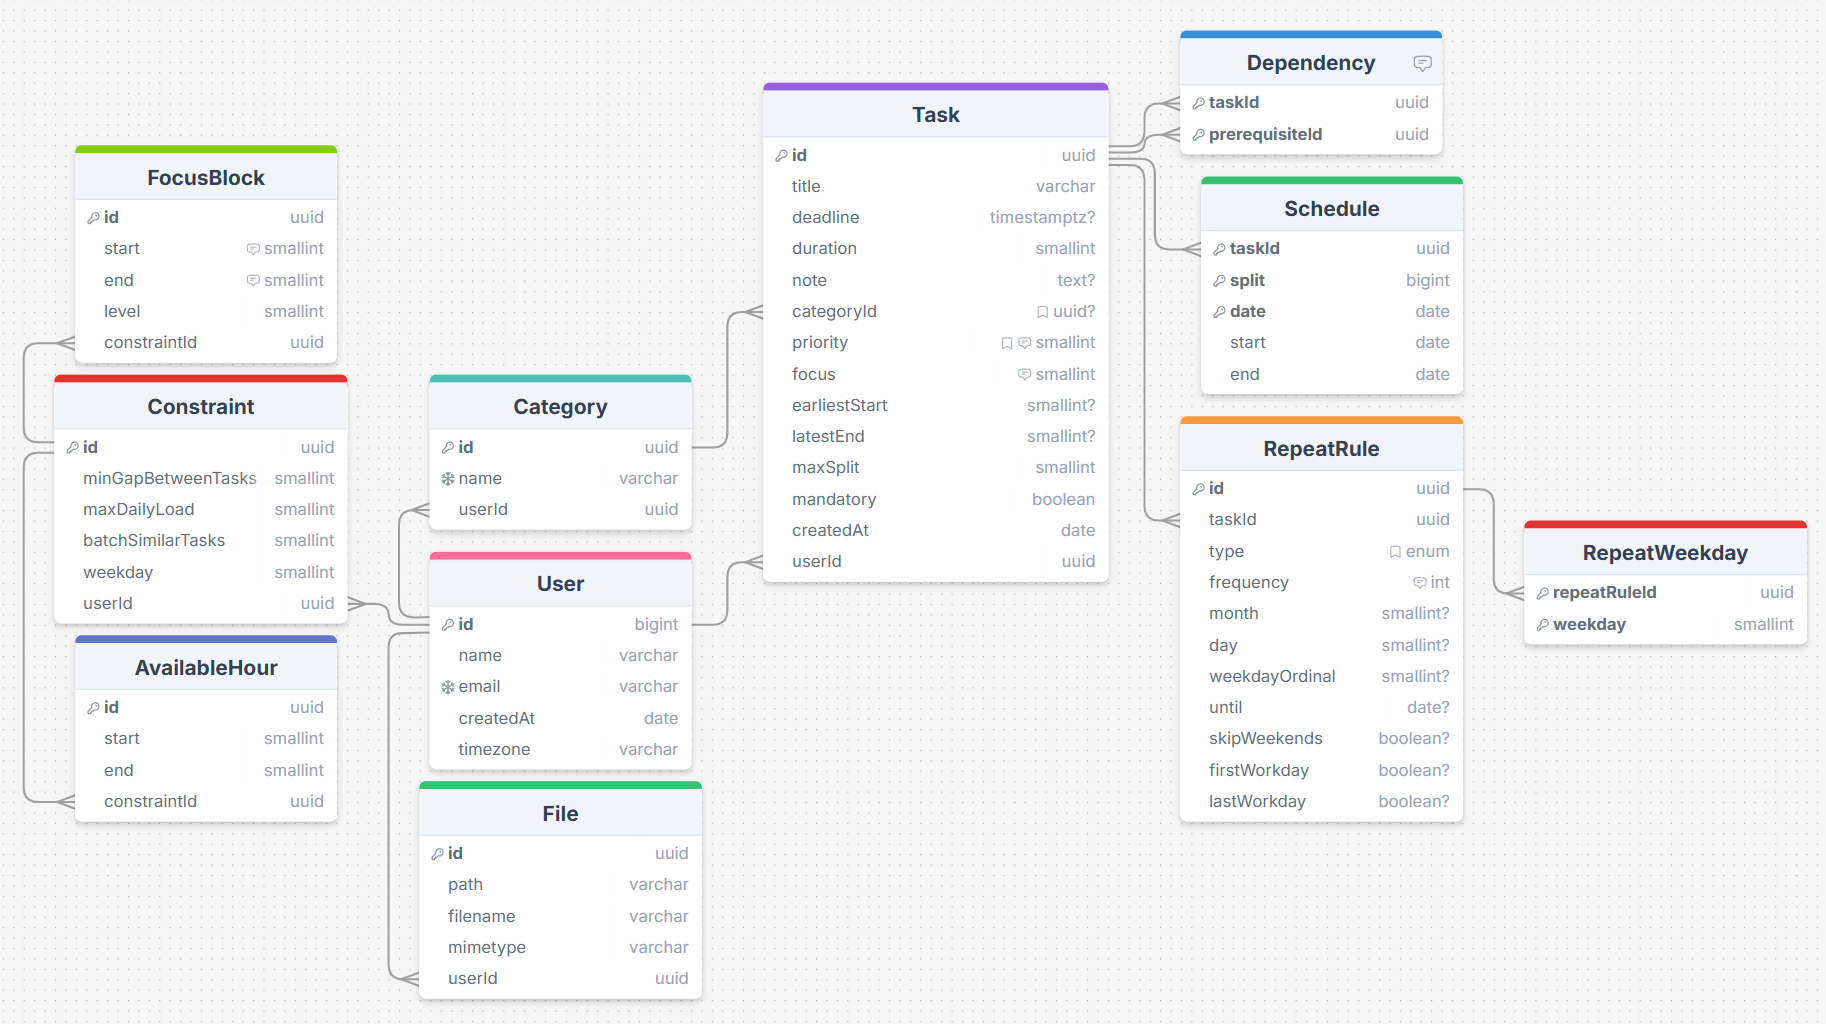
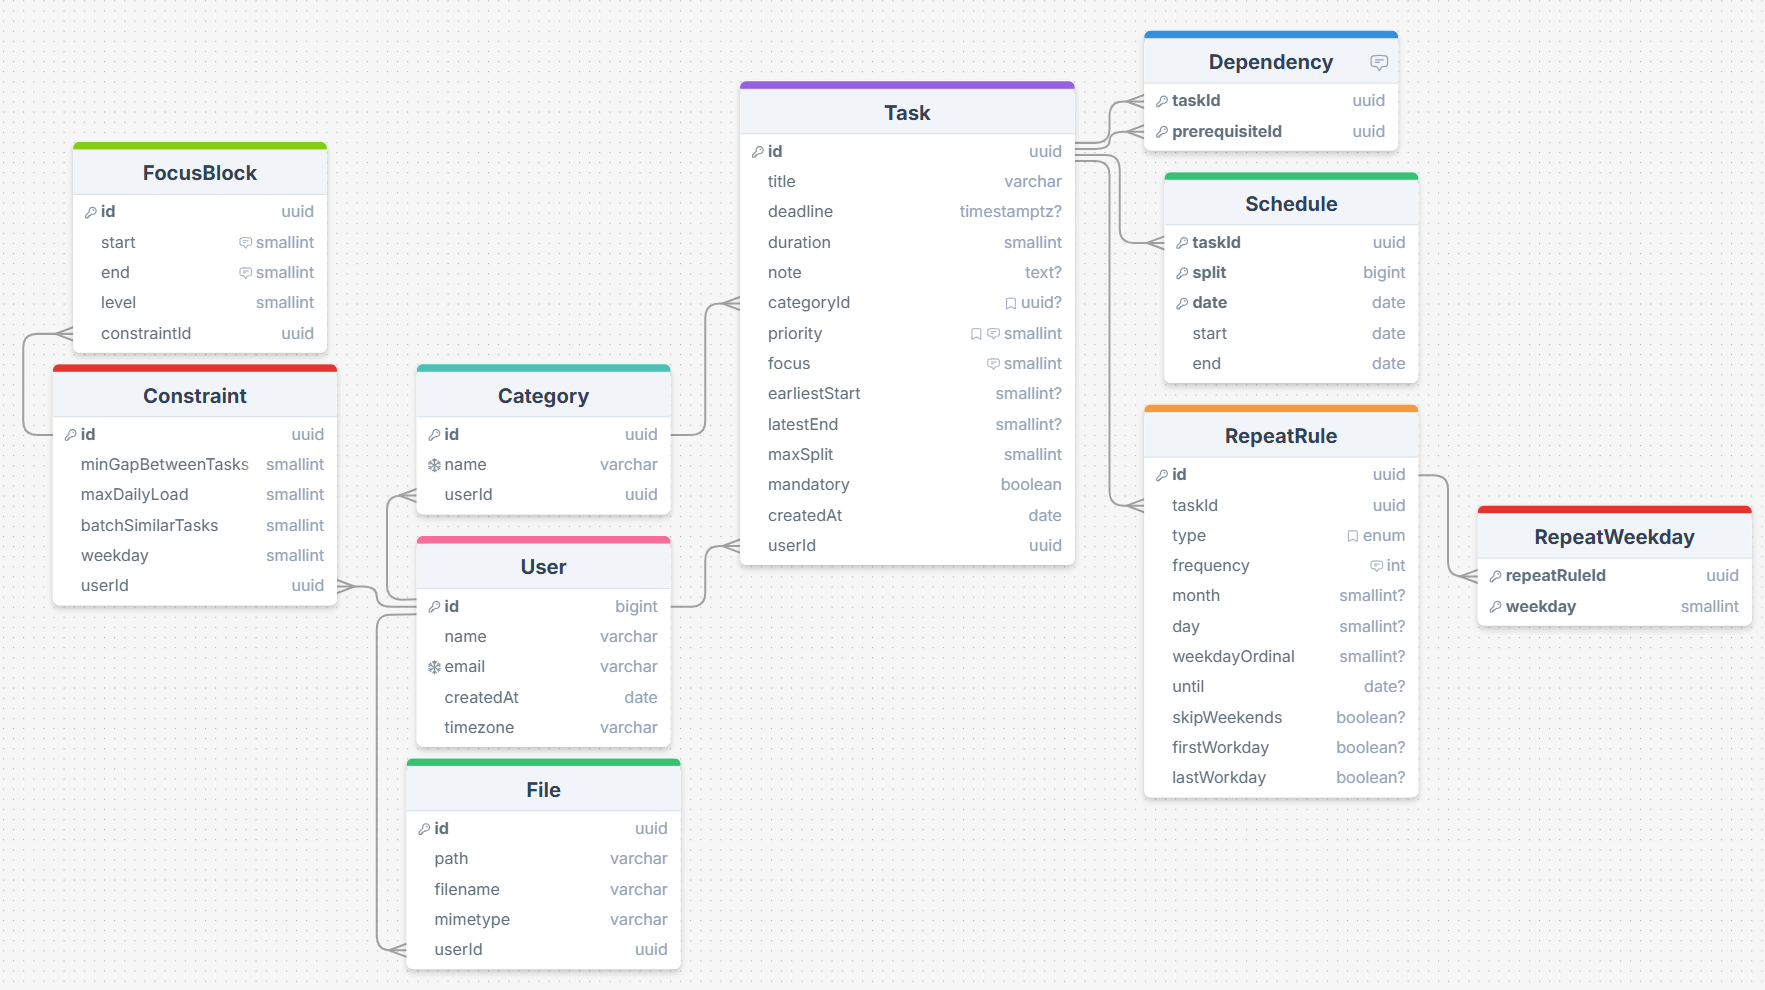
docs: update README to match API changes

diff --git a/README.md b/README.md
@@ -62,22 +62,3 @@ Zenflow is a smart planner app that helps users schedule their tasks efficiently
 - Containerization: Docker
 - Deployment: Digital Ocean, NGINX, Netlify
 - Domain name: Cloudflare
-
-
-## Database Design
-
-![Database Design](./assets/image.png)
-
-### Elaboration
-
-- `earliestStart` and `latestEnd` allow flexible scheduling within the range. If `latestEnd - earliestStart = duration`, the task is fixed.
-- `maxDailyLoad` drops optional tasks that demand high mental energy if the total duration exceeds it.
-- `batchSimilarTasks` groups tasks with similar categories together to minimize context switching.
-- `minGapBetweenTasks` defines the minimum minutes to take a break between two tasks (if time allows).
-- `weekday` is a value between 0 and 6, with respect to Monday to Sunday.
-- `weekdayOrdinal` tells whether the task is repeated on the first/second/third weekday of the month/year. It can be -1 (last weekday), or from 0-5 corresponding to the first/second/third, etc.
-- `firstWorkday` and `lastWorkday` are booleans indicating whether repeat rules should be applied to the first or last workday of a month.
-- `timezone` is a string of the user’s timezone e.g., Europe/Paris, Asia/Ho Chi Minh, America/New York, which is used to shift from UTC to the local timezone.
-- `availableHours` are the hours the users are available to perform tasks.
-- `focus` is the **mental** energy level required to perform a task (in the `Task` table), corresponding to the user’s `level` at a particular point in the `FocusBlock` table. The value can range from 1 to 3.
-- The `RepeatRule` table will have a column `weekdays`, which is an array of weekdays to repeat (repeat by week only) instead of a separate table `RepeatWeekday` like above.

diff --git a/backend/README.md b/backend/README.md
@@ -45,3 +45,20 @@ docker compose up -d
 The API is available at [http://localhost:5000](http://localhost:5000)
 
 For the documentation of the API, go to [http://localhost:5000/api](http://localhost:5000/api)
+
+## Database Design
+
+![Database Design](./assets/image.png)
+
+### Elaboration
+
+- `earliestStart` and `latestEnd` allow flexible scheduling within the range. If `latestEnd - earliestStart = duration`, the task is fixed.
+- `maxDailyLoad` drops optional tasks that demand high mental energy if the total duration exceeds it.
+- `batchSimilarTasks` groups tasks with similar categories together to minimize context switching.
+- `minGapBetweenTasks` defines the minimum minutes to take a break between two tasks (if time allows).
+- `weekday` is a value between 0 and 6, with respect to Monday to Sunday.
+- `weekdayOrdinal` tells whether the task is repeated on the first/second/third weekday of the month/year. It can be -1 (last weekday), or from 0-5 corresponding to the first/second/third, etc.
+- `firstWorkday` and `lastWorkday` are booleans indicating whether repeat rules should be applied to the first or last workday of a month.
+- `timezone` is a string of the user’s timezone e.g., Europe/Paris, Asia/Ho Chi Minh, America/New York, which is used to shift from UTC to the local timezone.
+- `focus` is the **mental** energy level required to perform a task (in the `Task` table), corresponding to the user’s `level` at a particular point in the `FocusBlock` table. The value can range from 1 to 3.
+- The `RepeatRule` table will have a column `weekdays`, which is an array of weekdays to repeat (repeat by week only) instead of a separate table `RepeatWeekday` like above.
